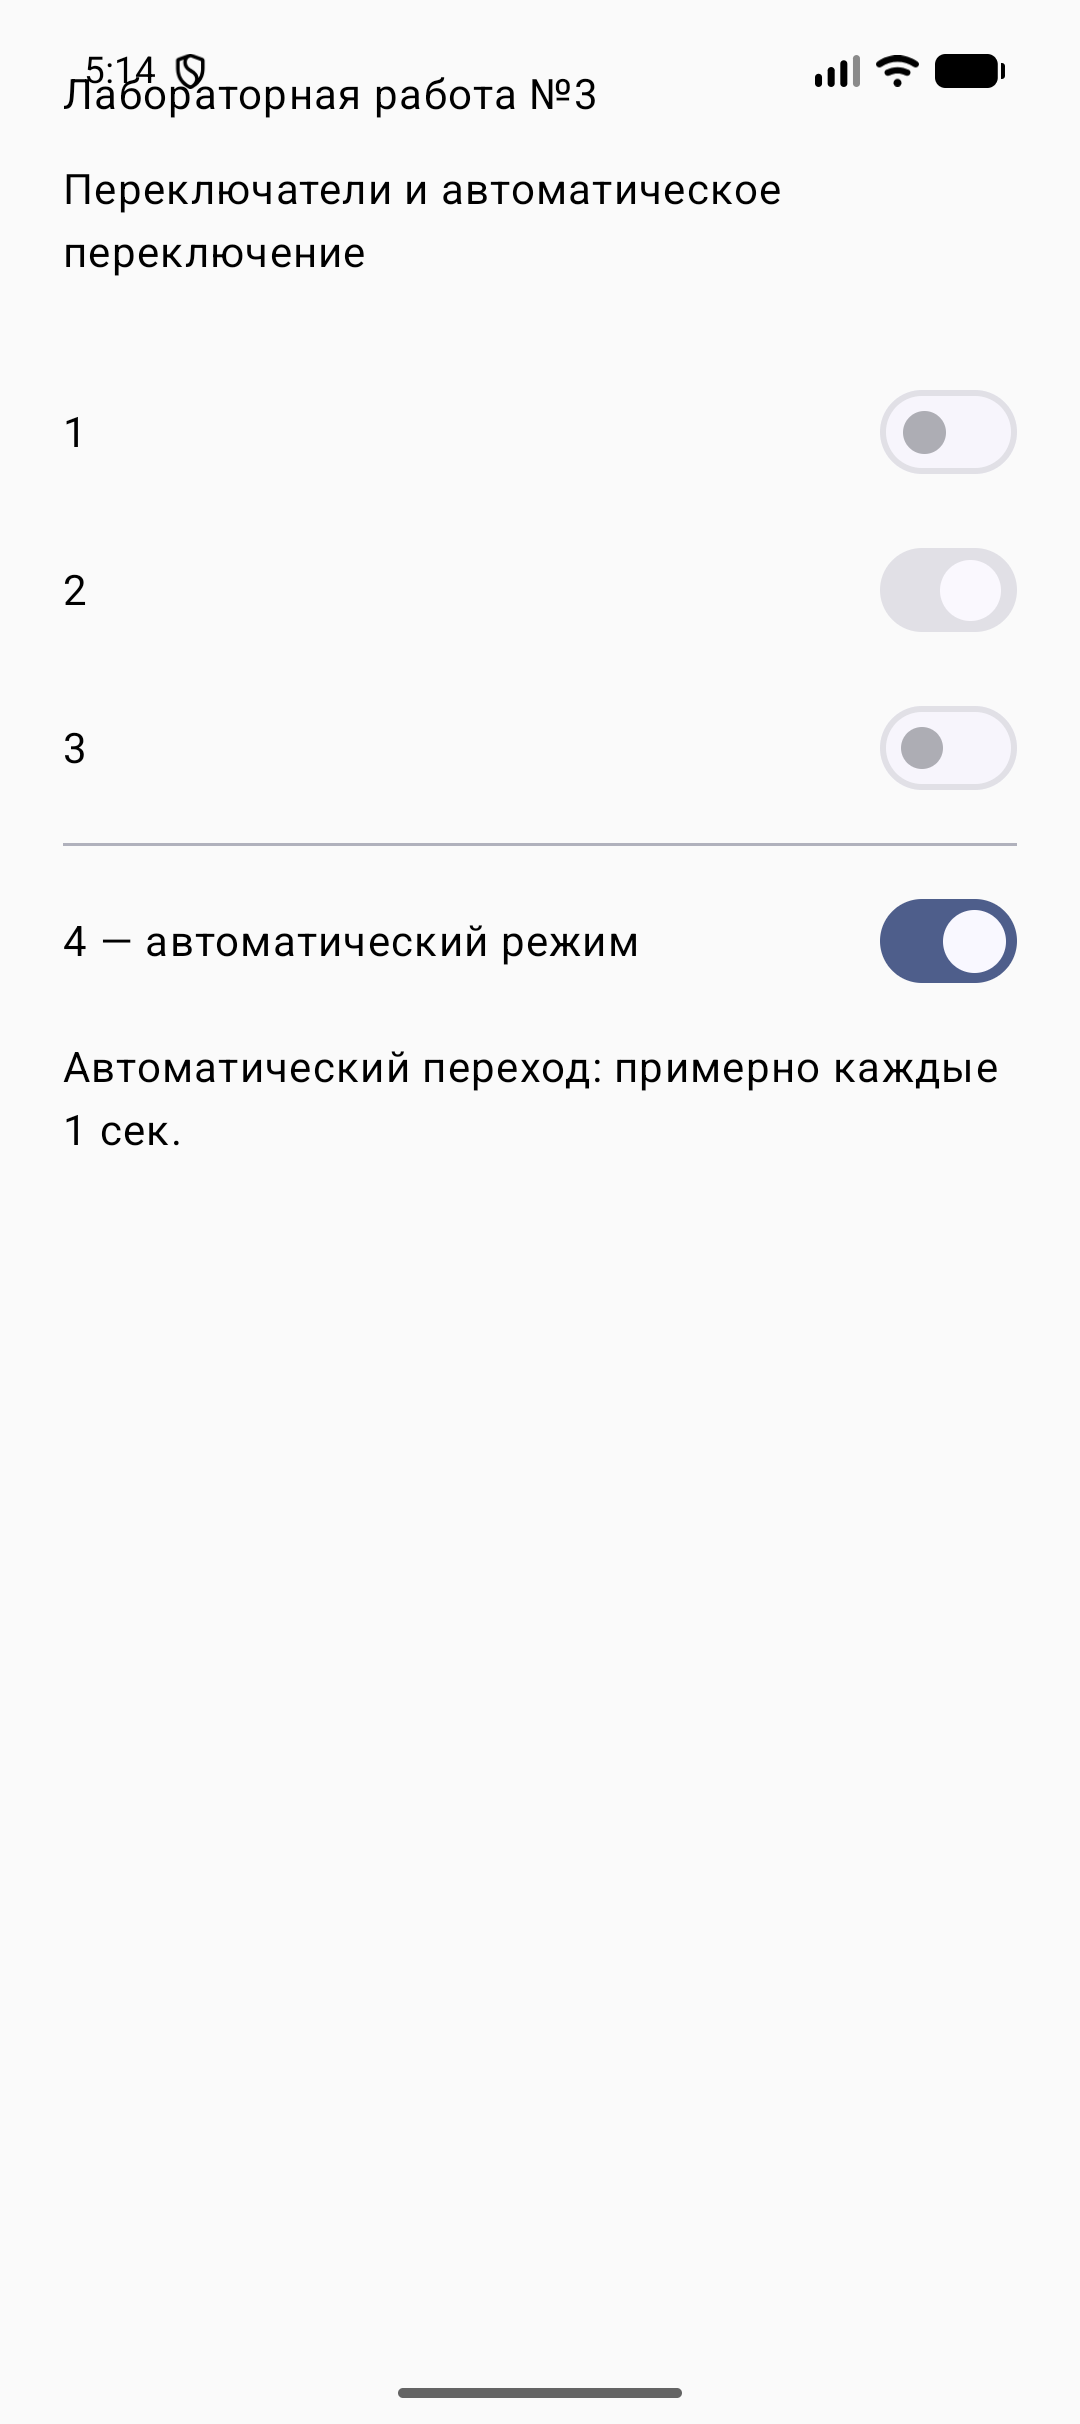
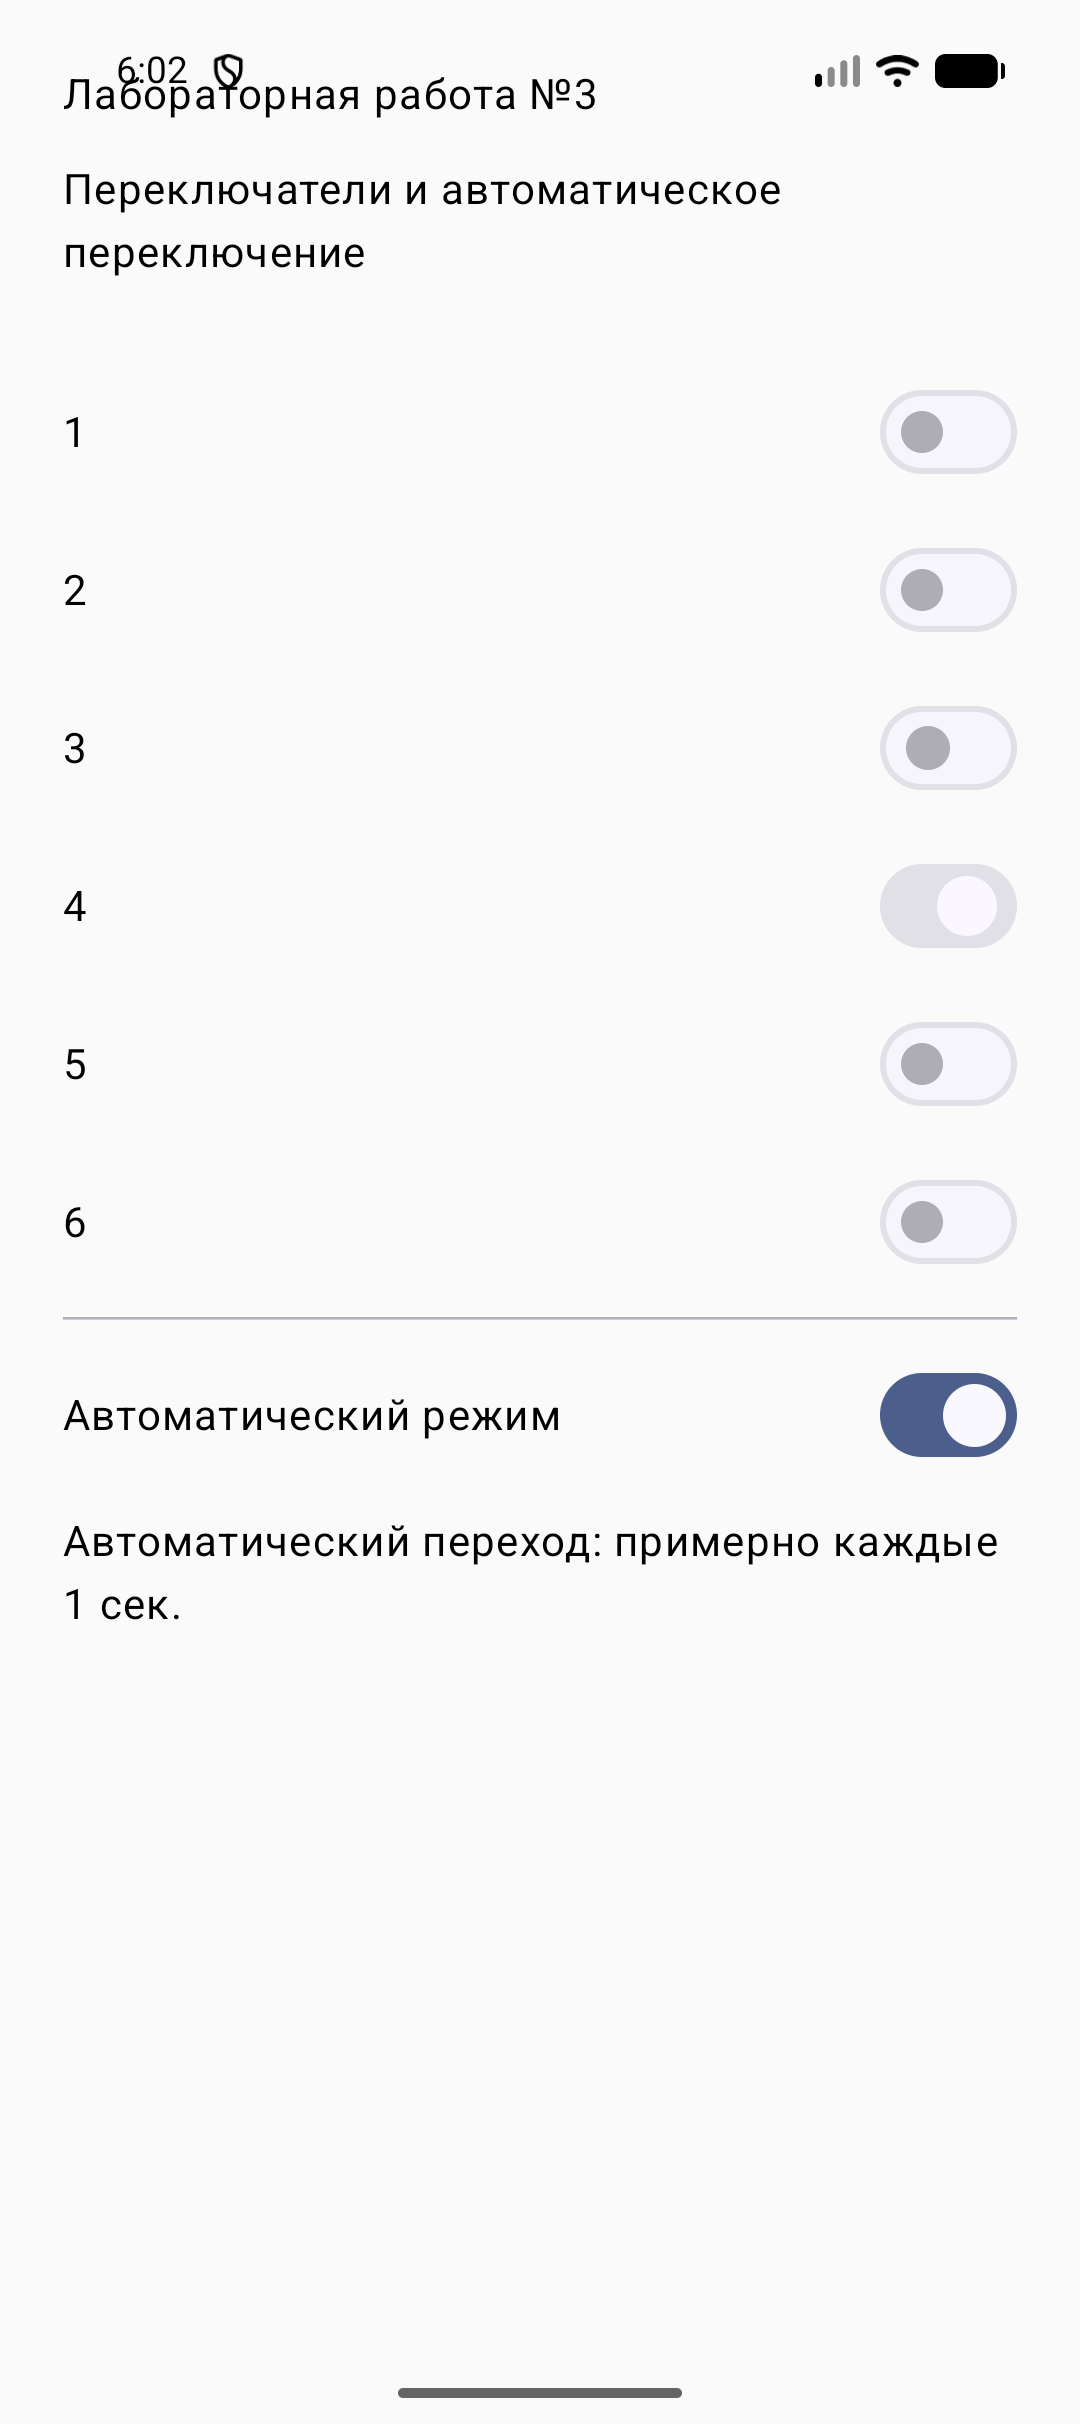
with adding new switches

diff --git a/app/src/main/java/com/example/puzzle/Lab3Screen.kt b/app/src/main/java/com/example/puzzle/Lab3Screen.kt
@@ -1,6 +1,7 @@
 package com.example.puzzle
 
 import androidx.compose.foundation.layout.Arrangement
+import androidx.compose.foundation.layout.BoxWithConstraints
 import androidx.compose.foundation.layout.Column
 import androidx.compose.foundation.layout.Row
 import androidx.compose.foundation.layout.Spacer
@@ -8,6 +9,8 @@ import androidx.compose.foundation.layout.fillMaxSize
 import androidx.compose.foundation.layout.fillMaxWidth
 import androidx.compose.foundation.layout.height
 import androidx.compose.foundation.layout.padding
+import androidx.compose.foundation.rememberScrollState
+import androidx.compose.foundation.verticalScroll
 import androidx.compose.material3.HorizontalDivider
 import androidx.compose.material3.Switch
 import androidx.compose.material3.Text
@@ -20,6 +23,7 @@ import androidx.compose.runtime.saveable.rememberSaveable
 import androidx.compose.runtime.setValue
 import androidx.compose.ui.Alignment
 import androidx.compose.ui.Modifier
+import androidx.compose.ui.platform.LocalDensity
 import androidx.compose.ui.platform.LocalLifecycleOwner
 import androidx.compose.ui.unit.dp
 import androidx.lifecycle.Lifecycle
@@ -29,6 +33,7 @@ import kotlinx.coroutines.delay
 @Composable
 fun Lab3Screen() {
     var activeIndex by rememberSaveable { mutableStateOf(0) }
+    var switchCount by rememberSaveable { mutableStateOf(3) }
     var autoMode by rememberSaveable { mutableStateOf(false) }
     var isStarted by rememberSaveable { mutableStateOf(true) }
     val lifecycleOwner = LocalLifecycleOwner.current
@@ -45,56 +50,67 @@ fun Lab3Screen() {
         onDispose { lifecycleOwner.lifecycle.removeObserver(observer) }
     }
 
-    LaunchedEffect(autoMode, isStarted) {
-        if (autoMode && isStarted) {
-            while (true) {
-                delay(1_000)
-                activeIndex = (activeIndex + 1) % 3
+    BoxWithConstraints(
+        modifier = Modifier.fillMaxSize()
+    ) {
+        val density = LocalDensity.current
+        val maxHeightDp = with(density) { constraints.maxHeight.toDp() }
+        val rowCapacity =
+            ((maxHeightDp.value - 220f) / 56f).toInt().coerceAtLeast(3)
+        val switchCapacity = (rowCapacity / 3 * 3).coerceAtLeast(3)
+
+        LaunchedEffect(autoMode, isStarted, switchCount) {
+            if (autoMode && isStarted) {
+                while (true) {
+                    delay(1_000)
+                    val nextIndex = (activeIndex + 1) % switchCount
+                    if (nextIndex == 0 && switchCount < switchCapacity) {
+                        switchCount = (switchCount + 3).coerceAtMost(switchCapacity)
+                    }
+                    activeIndex = nextIndex
+                }
             }
         }
-    }
 
-    Column(
-        modifier = Modifier
-            .fillMaxSize()
-            .padding(24.dp),
-        verticalArrangement = Arrangement.spacedBy(12.dp)
-    ) {
-        Text("Лабораторная работа №3")
-        Text("Переключатели и автоматическое переключение")
-        Spacer(modifier = Modifier.height(8.dp))
-        StepSwitch(
-            label = "1",
-            checked = activeIndex == 0,
-            enabled = !autoMode && activeIndex == 0,
-            onCheckedChange = { activeIndex = (activeIndex + 1) % 3 }
-        )
-        StepSwitch(
-            label = "2",
-            checked = activeIndex == 1,
-            enabled = !autoMode && activeIndex == 1,
-            onCheckedChange = { activeIndex = (activeIndex + 1) % 3 }
-        )
-        StepSwitch(
-            label = "3",
-            checked = activeIndex == 2,
-            enabled = !autoMode && activeIndex == 2,
-            onCheckedChange = { activeIndex = (activeIndex + 1) % 3 }
-        )
-        HorizontalDivider()
-        StepSwitch(
-            label = "4 — автоматический режим",
-            checked = autoMode,
-            enabled = true,
-            onCheckedChange = { autoMode = it }
-        )
-        Text(
-            text = if (autoMode) {
-                "Автоматический переход: примерно каждые 1 сек."
-            } else {
-                "Ручной режим: активен шаг ${activeIndex + 1}"
+        Column(
+            modifier = Modifier
+                .fillMaxSize()
+                .verticalScroll(rememberScrollState())
+                .padding(24.dp),
+            verticalArrangement = Arrangement.spacedBy(12.dp)
+        ) {
+            Text("Лабораторная работа №3")
+            Text("Переключатели и автоматическое переключение")
+            Spacer(modifier = Modifier.height(8.dp))
+            repeat(switchCount) { index ->
+                StepSwitch(
+                    label = (index + 1).toString(),
+                    checked = activeIndex == index,
+                    enabled = !autoMode && activeIndex == index,
+                    onCheckedChange = {
+                        val nextIndex = (activeIndex + 1) % switchCount
+                        if (nextIndex == 0 && switchCount < switchCapacity) {
+                            switchCount = (switchCount + 3).coerceAtMost(switchCapacity)
+                        }
+                        activeIndex = nextIndex
+                    }
+                )
             }
-        )
+            HorizontalDivider()
+            StepSwitch(
+                label = "Автоматический режим",
+                checked = autoMode,
+                enabled = true,
+                onCheckedChange = { autoMode = it }
+            )
+            Text(
+                text = if (autoMode) {
+                    "Автоматический переход: примерно каждые 1 сек."
+                } else {
+                    "Ручной режим: активен шаг ${activeIndex + 1}"
+                }
+            )
+        }
     }
 }
 

diff --git a/TIMP_Android_Labs/lab_03_report.md b/TIMP_Android_Labs/lab_03_report.md
@@ -14,6 +14,7 @@
 Состояние экрана:
 
 - `activeIndex` — активный шаг от 0 до 2;
+- `switchCount` — текущее число ручных переключателей;
 - `autoMode` — состояние автоматического режима;
 - `isStarted` — находится ли экран в активном состоянии Activity.
 
@@ -28,6 +29,18 @@ activeIndex = (activeIndex + 1) % 3
 ```
 
 Таким образом, последовательность получается `1 → 2 → 3 → 1`.
+
+После полного ручного или автоматического цикла количество ручных
+переключателей увеличивается на три, если для них остаётся место на экране:
+
+```text
+1 → 2 → 3 → 1 → 2 → 3 → 4 → 5 → 6 → 1
+```
+
+Дальнейшие циклы могут добавить переключатели 7–9 и далее до рассчитанного
+предела. Предел определяется доступной высотой экрана, с сохранением числа
+переключателей кратным трём. При нехватке места дополнительные группы больше
+не появляются; интерфейс дополнительно разрешает прокрутку содержимого.
 
 ## Автоматический режим
 
